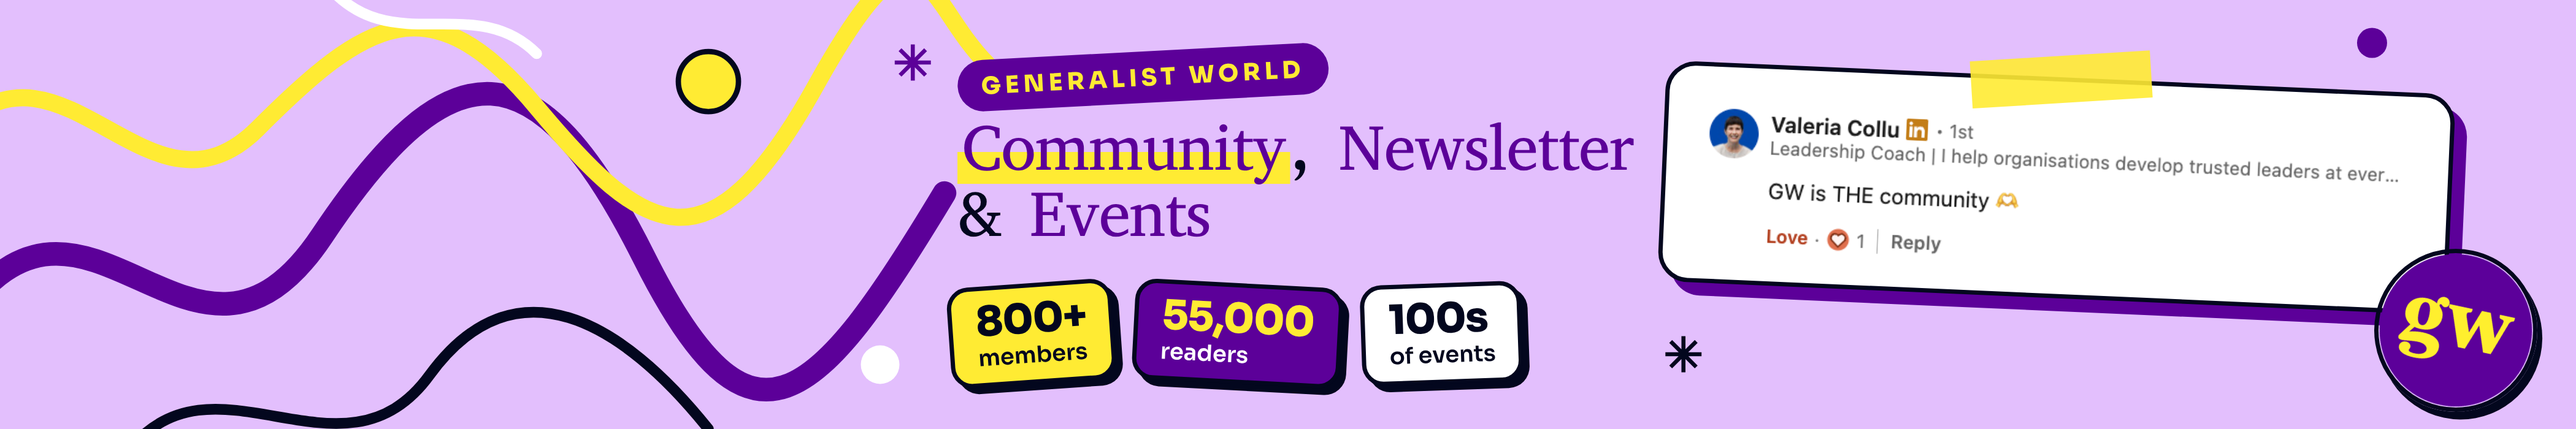
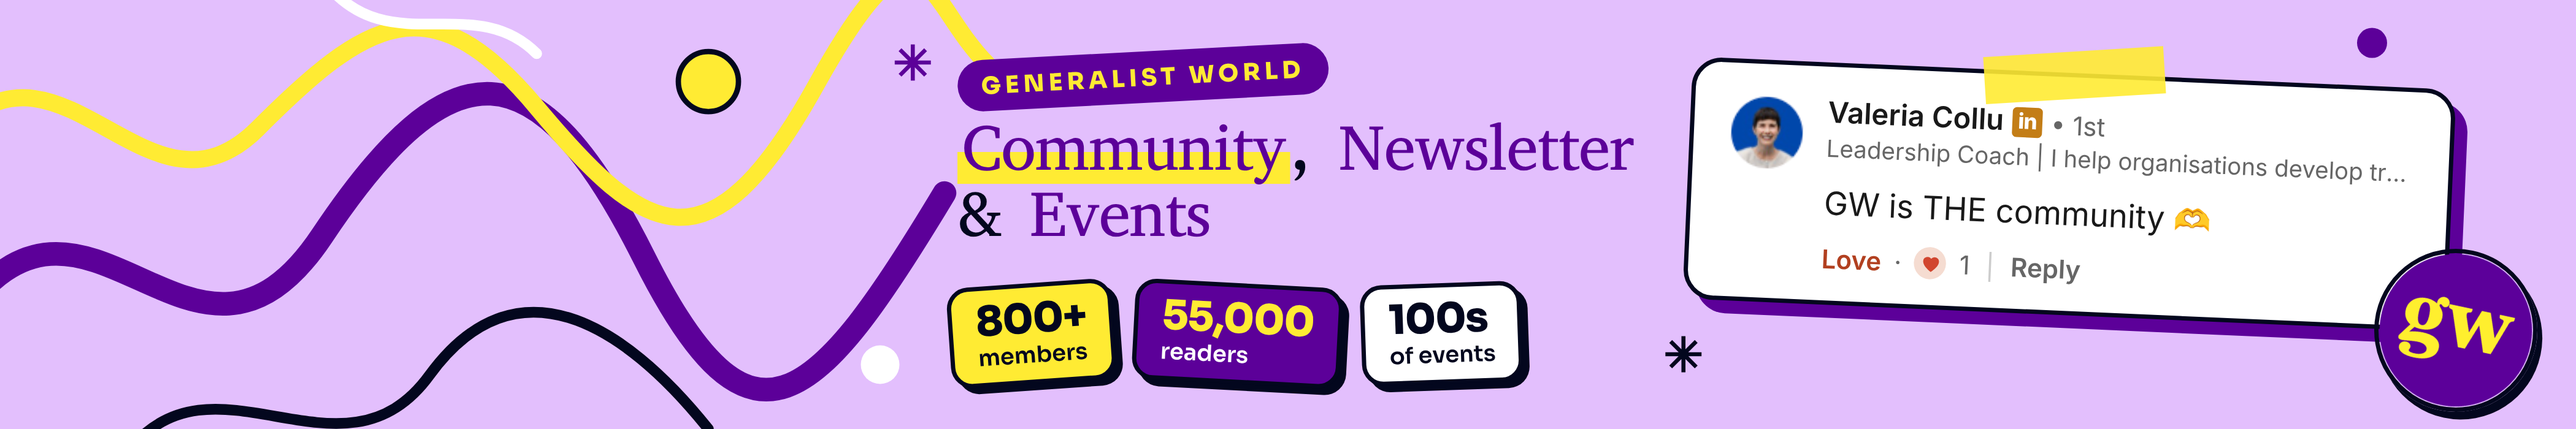
Rebuild comment card as crisp HTML; add 2256px export
Claude-Session: https://claude.ai/code/session_01LEoNCPeKeuwnfdiD4PqjDh

Changed region(s): [[0.6238, 0.09, 0.9669, 0.81], [0.6862, 0.42, 0.8733, 0.54]]

diff --git a/banner/banner.html b/banner/banner.html
@@ -20,9 +20,19 @@ svg.sq{position:absolute;inset:0}
 .s1{background:var(--yellow);transform:rotate(-4deg)}
 .s2{background:var(--purple);color:#fff;transform:rotate(3deg)}.s2 b{color:var(--yellow)}
 .s3{background:#fff;transform:rotate(-2deg)}
-.card{position:absolute;right:58px;top:36px;background:#fff;border:2.5px solid var(--ink);border-radius:14px;padding:6px 8px;box-shadow:6px 6px 0 var(--purple);transform:rotate(2.5deg)}
-.card img{display:block;width:348px;height:auto;border-radius:8px}
+.card{position:absolute;right:58px;top:34px;width:356px;background:#fff;border:2.5px solid var(--ink);border-radius:14px;padding:14px 16px 12px;box-shadow:6px 6px 0 var(--purple);transform:rotate(2.5deg);font-family:Inter,sans-serif;color:#191919;display:flex;gap:10px}
 .tape{position:absolute;top:-12px;left:50%;width:84px;height:22px;margin-left:-42px;background:rgba(255,235,51,.9);transform:rotate(-6deg)}
+.av{width:36px;height:36px;border-radius:50%;flex:none}
+.nm{font-size:13.5px;font-weight:600;display:flex;align-items:center;gap:4px;white-space:nowrap}
+.li{display:inline-flex;width:14px;height:14px;border-radius:2px;background:#C37D16;color:#fff;font-size:10px;font-weight:800;align-items:center;justify-content:center;letter-spacing:-.3px}
+.deg{font-weight:400;color:#666;font-size:12px}
+.ttl{font-size:11px;color:#666;white-space:nowrap;overflow:hidden;text-overflow:ellipsis;width:276px;margin-top:1px}
+.msg{font-size:15px;margin:9px 0 9px}
+.msg .e{font-family:'Noto Color Emoji';font-size:14px}
+.act{font-size:12px;font-weight:600;color:#666;display:flex;align-items:center;gap:6px}
+.act .love{color:#B24020}
+.ht{display:inline-flex;width:15px;height:15px;border-radius:50%;background:#F5DCD1;align-items:center;justify-content:center}
+.sepv{width:1px;height:14px;background:#ccc;margin:0 3px}
 .logo{position:absolute;right:18px;top:116px;width:76px;height:76px;border-radius:50%;transform:rotate(12deg);box-shadow:3px 3px 0 var(--ink);border:2.5px solid var(--ink)}
 .spark{position:absolute;font-size:22px;font-weight:800;color:var(--purple)}
 </style></head><body>
@@ -44,6 +54,11 @@ svg.sq{position:absolute;inset:0}
  <div class="st s2"><b>55,000</b>readers</div>
  <div class="st s3"><b>100s</b>of events</div>
 </div>
-<div class="card"><div class="tape"></div><img src="comment.png"></div>
+<div class="card"><div class="tape"></div><img class="av" src="avatar.png"><div>
+<div class="nm">Valeria Collu <span class="li">in</span> <span class="deg">• 1st</span></div>
+<div class="ttl">Leadership Coach | I help organisations develop trusted leaders at every level</div>
+<div class="msg">GW is THE community <span class="e">🫶</span></div>
+<div class="act"><span class="love">Love</span><span style="font-weight:400">·</span><span class="ht"><svg width="10" height="9" viewBox="0 0 24 22"><path fill="#D1462F" d="M12 21s-9-6-9-12a5 5 0 0 1 9-3 5 5 0 0 1 9 3c0 6-9 12-9 12z"/></svg></span><span style="font-weight:400">1</span><span class="sepv"></span>Reply</div>
+</div></div>
 <img class="logo" src="logo.png">
 </body></html>
